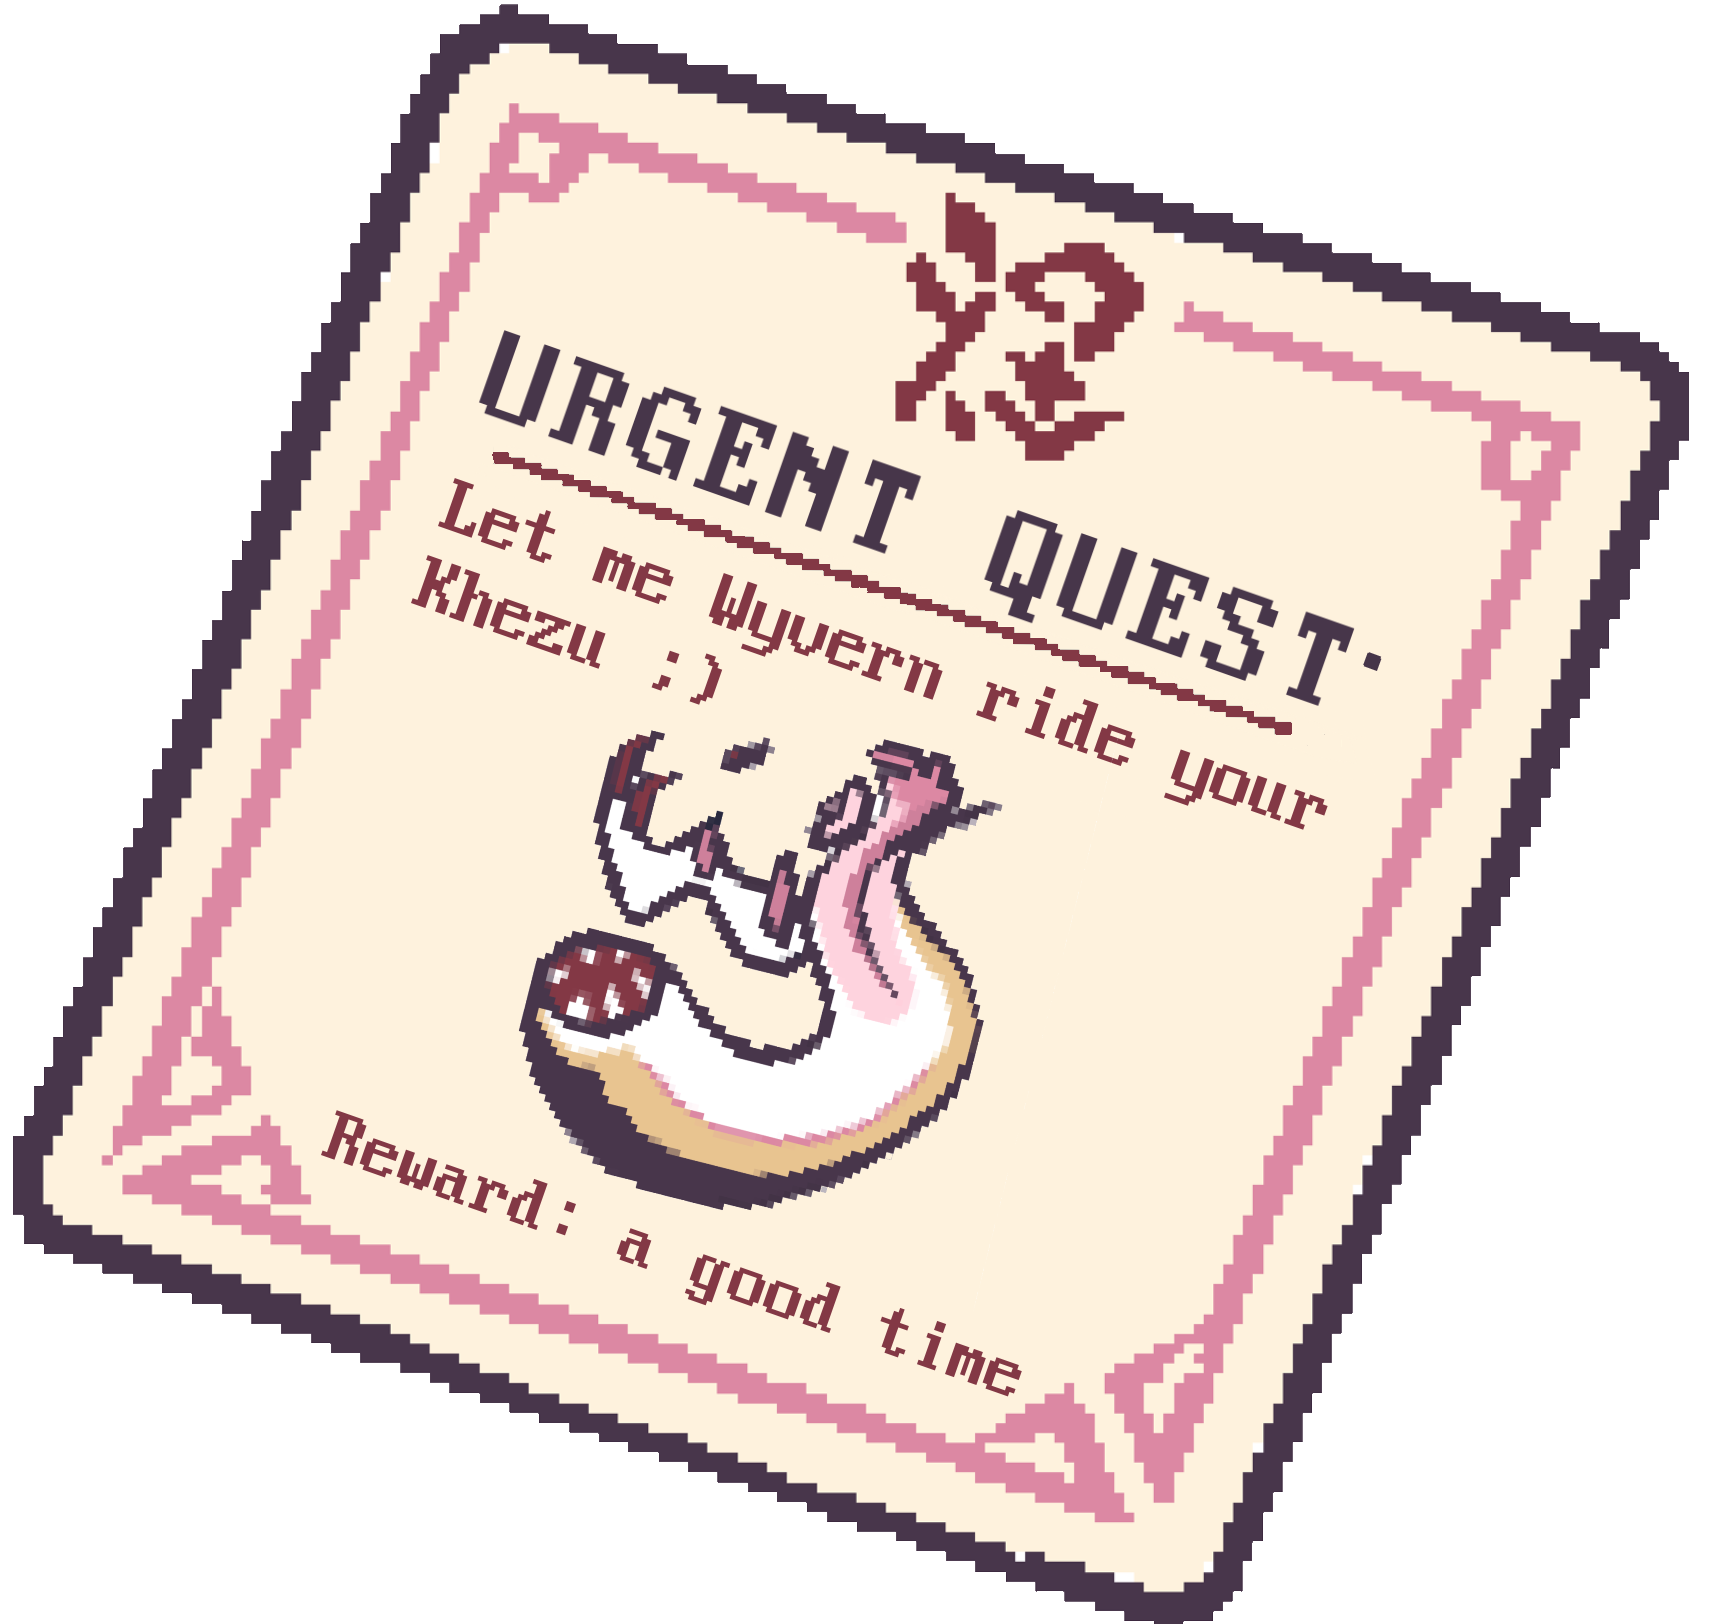
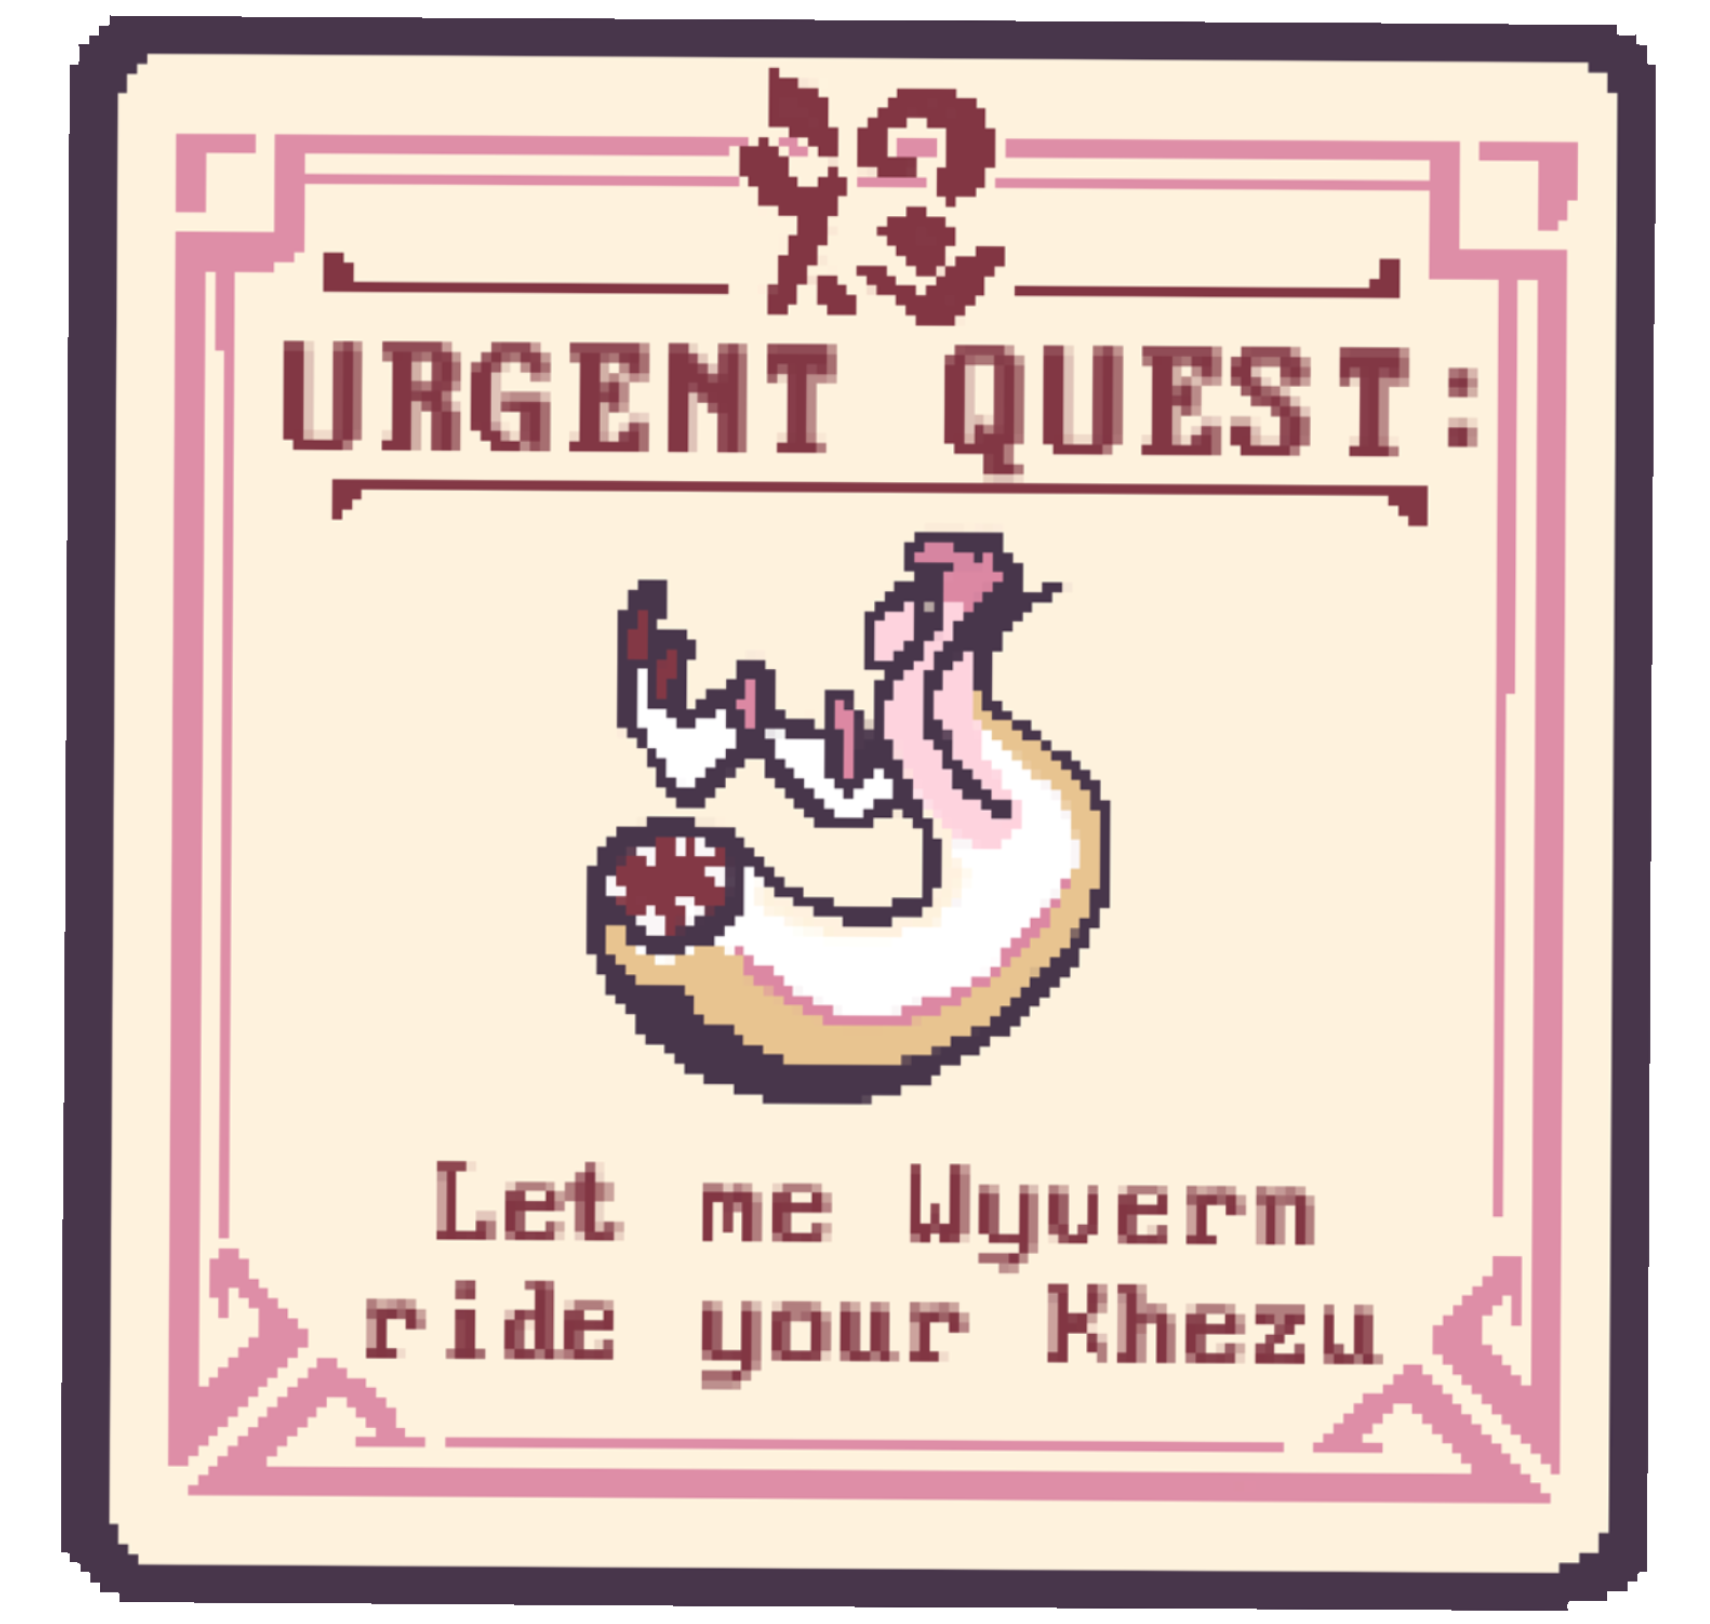
Added rest of the images/content
Added bananagrams, cat, and treasure hunt. Rearranged orders and
tweaked messages.

diff --git a/game-script.js b/game-script.js
@@ -10,25 +10,39 @@ const messageScreen = document.querySelector(".message-screen")
  
 const cards = {
     current: 0,
-    thumbnails: ["./images/pokeball.png", "./images/questBoard.png"],
-    images: ["./images/torchic.png", "./images/quest.png"],
-    names: ["pokemon", "monster hunter"],
+    thumbnails: [
+        "./images/bananagrams.png",
+        "./images/questBoard.png",
+        "./images/pokeball.png",
+        "./images/cat.png",
+        "./images/map.png"
+    ],
+    images: [
+        "./images/tiles.png",
+        "./images/quest.png",
+        "./images/torchic.png",
+        "./images/chipi.gif",
+        "./images/treasure.png"
+    ],
     thumbnailMessages: [
-        "It's a pokeball! I wonder what pokemon is inside?", 
-        "Is that a quest? I hope it's not urgent."
+        "What a weird looking banana...",
+        "Is that a quest? I hope it's not urgent!",
+        "It's a pokeball! I wonder what pokemon is inside?",
+        "A beat up box... looks like something (or someone) is moving in there!",
+        "Last one! Looks like some kind of map... "
     ],
     contentMessages: [
-        "It's a torchic! Looks like he has a message for you.",
-        "WOW! This looks really important."
+        "Oh! It's bananagrams! I hope this  makes up for all the times I beat you :)",
+        "WOW! This looks really important!",
+        "It's torchic!",
+        "CHIPI CHIPI CHAPA CHAPA DOOBIE DOOBIE DABA DABA MAGICO MI DUBI DUBI BOOM BOOM BOOM",
+        "A treasure hunt! Good luck on your search! Thanks for playing :)"
     ],
     getCurrentThumbnail: function() {
         return this.thumbnails[this.current];
     },
     getCurrentImage: function() {
         return this.images[this.current];
-    },
-    getCurrentName: function() { 
-        return this.names[this.current]; 
     },
     getCurrentThumbnailMessage: function() {
         return this.thumbnailMessages[this.current];
@@ -37,7 +51,7 @@ const cards = {
         return this.contentMessages[this.current];
     },
     canScrollRight: function() { 
-        return this.current < (this.names.length - 1);
+        return this.current < (this.thumbnails.length - 1);
     },
     canScrollLeft: function() { 
         return this.current > 0;

diff --git a/index.html b/index.html
@@ -3,7 +3,7 @@
 <head>
     <meta charset="UTF-8">
     <meta name="viewport" content="width=device-width, initial-scale=1.0">
-    <title>Message Box</title>
+    <title>Secret Valentines</title>
     <link rel="stylesheet" href="styles.css">
     <script src="game-script.js" defer></script>
 </head>
